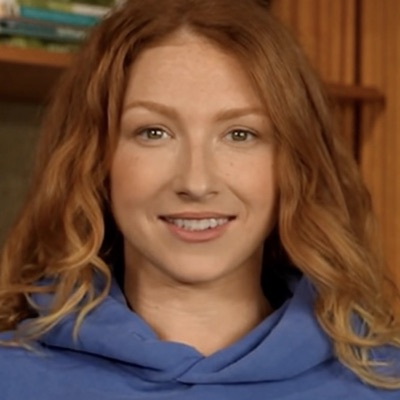
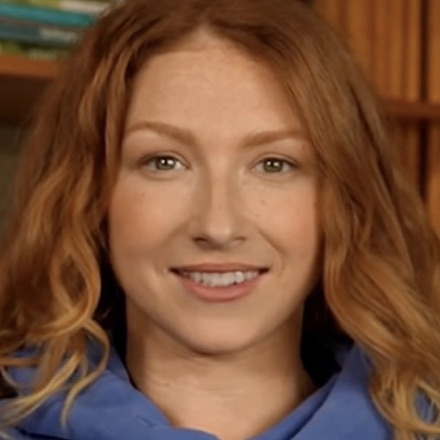
Sybel kartını açık zemine al, portreyi büyüt, konuşma balonu ekle
- Kart zemini koyu espresso yerine açık kayısı degrade; portre 104px
  (mobilde 76px), beyaz halkalı, kadraj yüze sıkılaştırıldı
- Sayfa açıldıktan 2 sn sonra portrenin üzerinden konuşma balonu:
  daktilo animasyonuyla karşılama mesajı (reduced-motion'da animasyonsuz)
- Hero alt boşluğu balona yer açmak için genişletildi

diff --git a/index.html b/index.html
@@ -74,7 +74,7 @@
     }
 
     /* Hero */
-    .hero{text-align:center;margin-bottom:clamp(22px,3.5vh,36px)}
+    .hero{text-align:center;margin-bottom:clamp(84px,11vh,100px)}
     .logo{
       width:min(200px,52vw);height:auto;display:block;margin:0 auto 30px;
       transition:transform .8s var(--ease);
@@ -199,15 +199,18 @@
     /* Sybel giris karti */
     button.shell{width:100%;text-align:inherit;font:inherit;color:inherit;cursor:pointer}
     .core{text-align:left}
-    .sybel-kart-core{position:relative;overflow:hidden}
+    .sybel-kart-core{
+      position:relative;
+      background:linear-gradient(160deg,#FFF8EE,#FAE8D3);
+    }
     .sybel-kart-core::after{
-      content:"";position:absolute;inset:0;pointer-events:none;
-      background:radial-gradient(420px 180px at 92% -30%, rgba(255,59,0,.18), transparent 70%);
+      content:"";position:absolute;inset:0;pointer-events:none;border-radius:inherit;
+      background:radial-gradient(420px 180px at 92% -30%, rgba(255,59,0,.14), transparent 70%);
     }
     .canli{
       display:inline-flex;align-items:center;gap:7px;
       font-size:10px;font-weight:600;letter-spacing:.2em;text-transform:uppercase;
-      color:rgba(244,237,226,.6);margin-bottom:5px;
+      color:#A3541B;margin-bottom:5px;
     }
     .canli::before{
       content:"";width:6px;height:6px;border-radius:999px;background:#FF3B00;
@@ -220,12 +223,12 @@
       100%{box-shadow:0 0 0 0 rgba(255,59,0,0)}
     }
     .sybel-yuz{
-      flex:0 0 84px;width:84px;height:84px;border-radius:999px;
+      flex:0 0 104px;width:104px;height:104px;border-radius:999px;
       object-fit:cover;display:block;
-      border:2px solid rgba(244,237,226,.3);
-      box-shadow:0 10px 26px -10px rgba(0,0,0,.5);
+      border:3px solid #fff;
+      box-shadow:0 14px 30px -12px rgba(34,27,21,.35);
     }
-    @media (max-width:480px){.sybel-yuz{flex-basis:64px;width:64px;height:64px}}
+    @media (max-width:480px){.sybel-yuz{flex-basis:76px;width:76px;height:76px}}
     .sybel-yuz-mini{
       width:64px;height:64px;border-radius:999px;object-fit:cover;
       display:block;margin:0 auto 14px;
@@ -234,11 +237,42 @@
     .sybel-ttl{font-family:"Fraunces",serif;font-weight:560;font-size:clamp(19px,2.8vw,24px);letter-spacing:-.01em}
     .mini-pil{
       display:inline-block;margin-left:10px;padding:3px 10px;border-radius:999px;
-      border:1px solid rgba(255,255,255,.14);background:rgba(255,255,255,.07);
-      font-size:11px;font-weight:600;color:rgba(244,237,226,.75);
+      border:1px solid rgba(34,27,21,.12);background:rgba(255,255,255,.6);
+      font-size:11px;font-weight:600;color:var(--muted);
       vertical-align:2px;letter-spacing:.02em;
     }
     @media (max-width:480px){.mini-pil{display:block;width:max-content;margin:8px 0 0}}
+
+    /* Konusma balonu */
+    .c-sybel{position:relative}
+    .balon{
+      position:absolute;bottom:calc(100% + 12px);left:16px;z-index:5;
+      max-width:min(380px,calc(100vw - 64px));
+      background:#fff;border:1px solid var(--hairline);
+      border-radius:16px;border-bottom-left-radius:4px;
+      padding:12px 16px;
+      font-size:13.5px;line-height:1.55;color:var(--ink);
+      box-shadow:0 18px 44px -18px rgba(34,27,21,.35);
+      transform-origin:14px calc(100% + 8px);
+      animation:balon-gel .55s var(--ease);
+    }
+    .balon::after{
+      content:"";position:absolute;top:calc(100% - 6px);left:40px;
+      width:12px;height:12px;background:#fff;
+      border-right:1px solid var(--hairline);border-bottom:1px solid var(--hairline);
+      transform:rotate(45deg);
+    }
+    @keyframes balon-gel{from{opacity:0;transform:scale(.85) translateY(8px)}to{opacity:1;transform:none}}
+    .balon .yaziyor::after{
+      content:"";display:inline-block;width:2px;height:1em;
+      background:var(--ink);margin-left:2px;vertical-align:-2px;
+      animation:balon-imlec 1s steps(1) infinite;
+    }
+    @keyframes balon-imlec{50%{opacity:0}}
+    @media (prefers-reduced-motion:reduce){
+      .balon{animation:none}
+      .balon .yaziyor::after{display:none}
+    }
 
     /* Sybel penceresi */
     html[data-sybel="acik"]{overflow:hidden}
@@ -390,8 +424,9 @@
 
     <div class="bento">
       <div class="c-sybel" data-reveal style="--d:90ms">
+        <div class="balon" id="sybel-balon" hidden aria-hidden="true"><span id="sybel-balon-metin"></span></div>
         <button class="shell" type="button" data-sybel-ac>
-          <span class="core dark sybel-kart-core">
+          <span class="core sybel-kart-core">
             <img class="sybel-yuz" src="sybel.jpg" alt="Sybel" />
             <span class="txt">
               <span class="canli">Görüntülü asistan</span>
@@ -531,6 +566,28 @@
       }
     }, { threshold: 0.12 });
     document.querySelectorAll('[data-reveal]').forEach(el => io.observe(el));
+
+    // Sybel konusma balonu: 2 sn sonra daktilo animasyonuyla
+    (() => {
+      const balon = document.getElementById('sybel-balon');
+      const metin = document.getElementById('sybel-balon-metin');
+      if (!balon || !metin) return;
+      const MESAJ = 'Merhaba, ben Sybel. Görüntülü konuşarak sorularınızı yanıtlayabilirim!';
+      const azalt = matchMedia('(prefers-reduced-motion: reduce)').matches;
+      setTimeout(() => {
+        balon.hidden = false;
+        if (azalt) { metin.textContent = MESAJ; return; }
+        metin.classList.add('yaziyor');
+        let i = 0;
+        const sayac = setInterval(() => {
+          metin.textContent = MESAJ.slice(0, ++i);
+          if (i >= MESAJ.length) {
+            clearInterval(sayac);
+            setTimeout(() => metin.classList.remove('yaziyor'), 1500);
+          }
+        }, 30);
+      }, 2000);
+    })();
   </script>
   <script defer src="/sybel.js?v=b11ecfad199f"></script>
 </body>
